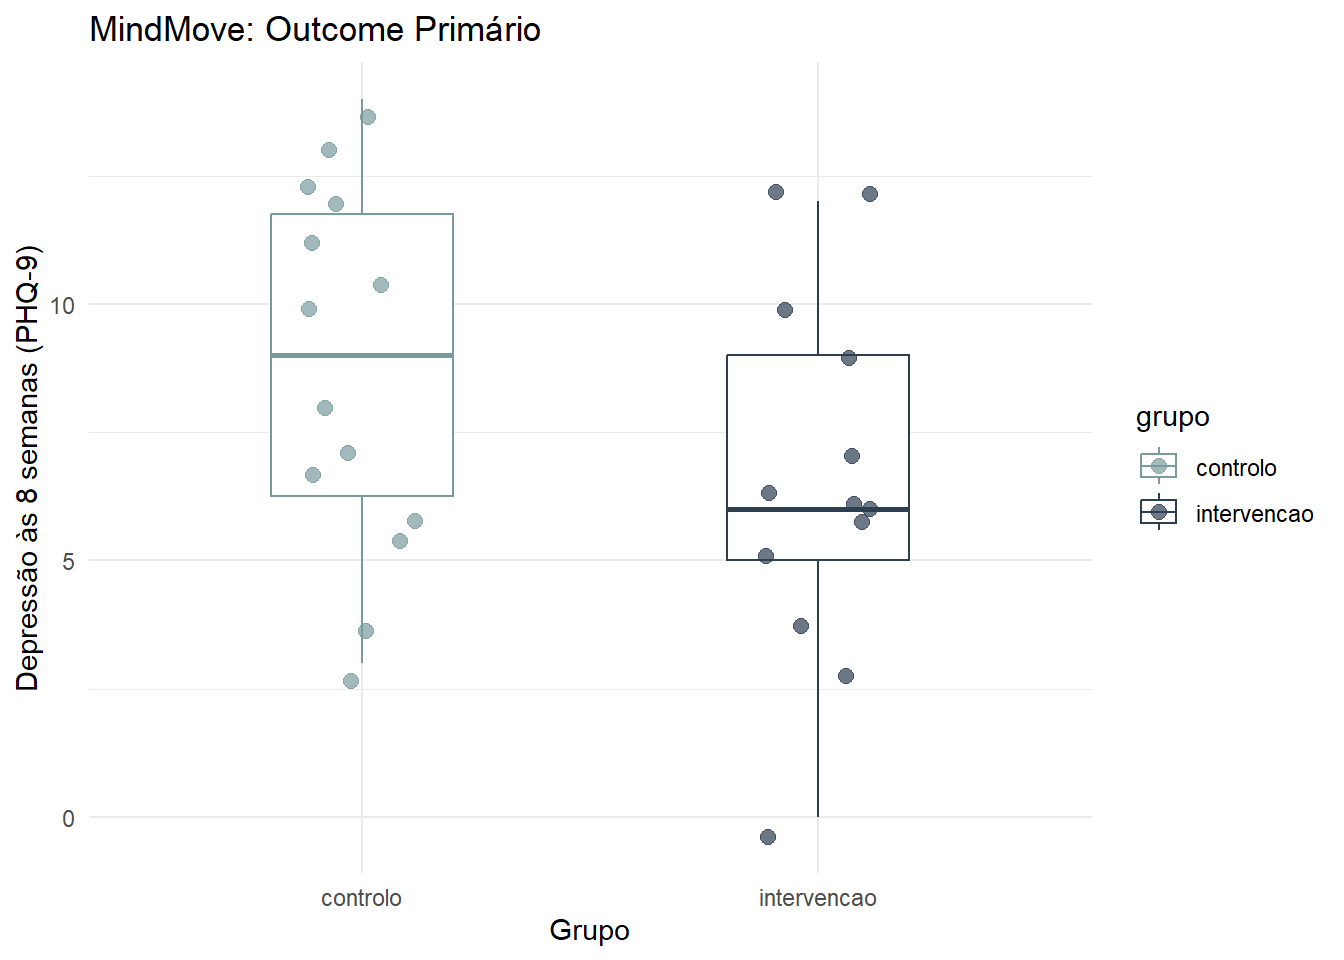
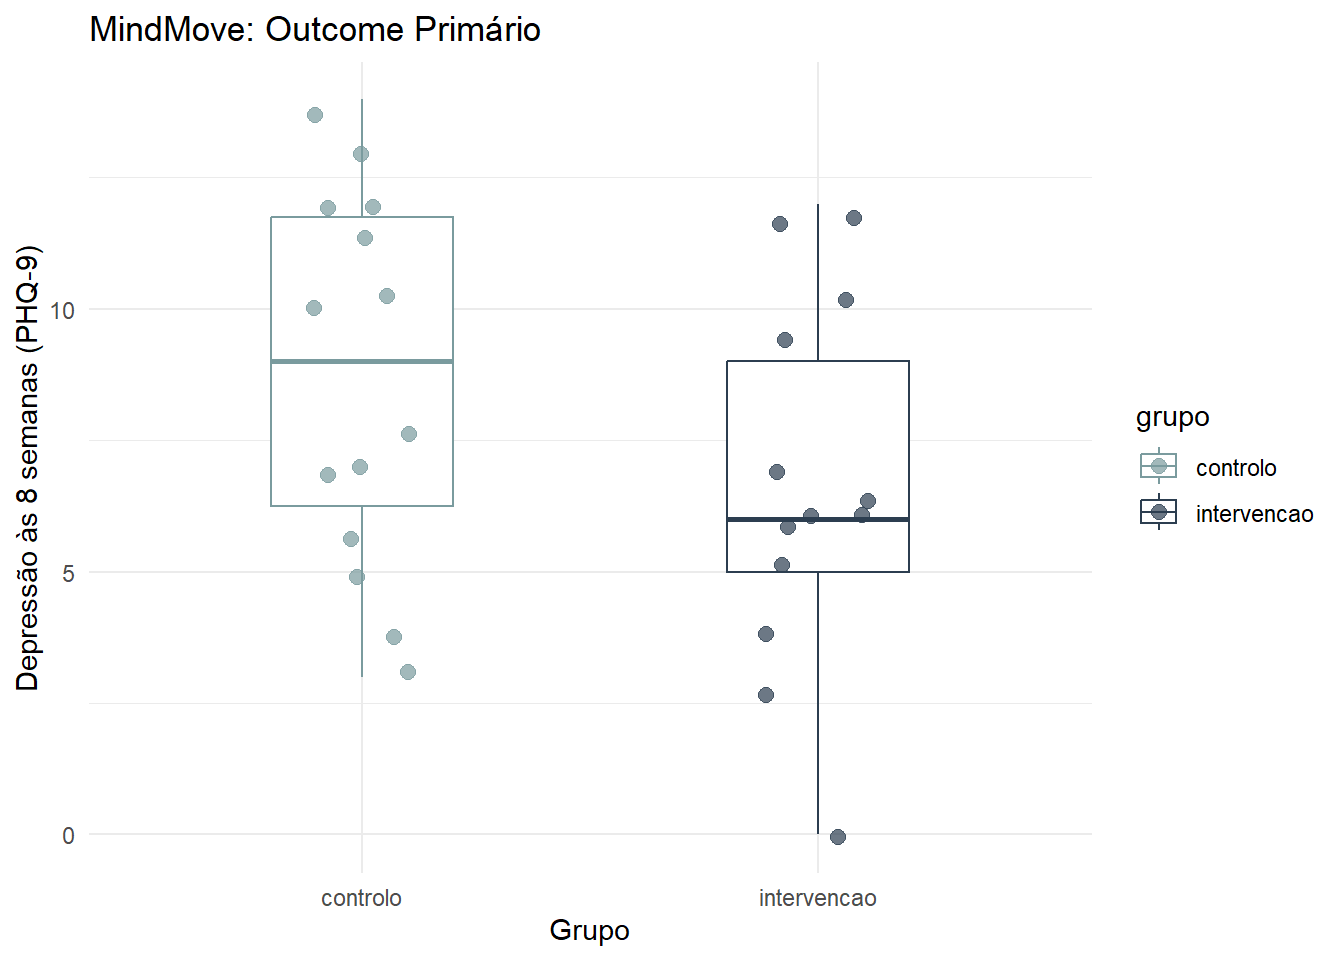
link figma

diff --git a/docs/resultados.html b/docs/resultados.html
@@ -161,23 +161,23 @@ ul.task-list li input[type="checkbox"] {
 <p>Aqui estão os resultados da nossa análise estatística sobre o projeto MindMove:</p>
 <div class="cell">
 <div class="cell-output-display">
-<div id="okndxrdubi" style="padding-left:0px;padding-right:0px;padding-top:10px;padding-bottom:10px;overflow-x:auto;overflow-y:auto;width:auto;height:auto;">
-<style>#okndxrdubi table {
+<div id="wqkzmlhntv" style="padding-left:0px;padding-right:0px;padding-top:10px;padding-bottom:10px;overflow-x:auto;overflow-y:auto;width:auto;height:auto;">
+<style>#wqkzmlhntv table {
   font-family: system-ui, 'Segoe UI', Roboto, Helvetica, Arial, sans-serif, 'Apple Color Emoji', 'Segoe UI Emoji', 'Segoe UI Symbol', 'Noto Color Emoji';
   -webkit-font-smoothing: antialiased;
   -moz-osx-font-smoothing: grayscale;
 }
 
-#okndxrdubi thead, #okndxrdubi tbody, #okndxrdubi tfoot, #okndxrdubi tr, #okndxrdubi td, #okndxrdubi th {
+#wqkzmlhntv thead, #wqkzmlhntv tbody, #wqkzmlhntv tfoot, #wqkzmlhntv tr, #wqkzmlhntv td, #wqkzmlhntv th {
   border-style: none;
 }
 
-#okndxrdubi p {
+#wqkzmlhntv p {
   margin: 0;
   padding: 0;
 }
 
-#okndxrdubi .gt_table {
+#wqkzmlhntv .gt_table {
   display: table;
   border-collapse: collapse;
   line-height: normal;
@@ -203,12 +203,12 @@ ul.task-list li input[type="checkbox"] {
   border-left-color: #D3D3D3;
 }
 
-#okndxrdubi .gt_caption {
+#wqkzmlhntv .gt_caption {
   padding-top: 4px;
   padding-bottom: 4px;
 }
 
-#okndxrdubi .gt_title {
+#wqkzmlhntv .gt_title {
   color: #333333;
   font-size: 125%;
   font-weight: initial;
@@ -220,7 +220,7 @@ ul.task-list li input[type="checkbox"] {
   border-bottom-width: 0;
 }
 
-#okndxrdubi .gt_subtitle {
+#wqkzmlhntv .gt_subtitle {
   color: #333333;
   font-size: 85%;
   font-weight: initial;
@@ -232,7 +232,7 @@ ul.task-list li input[type="checkbox"] {
   border-top-width: 0;
 }
 
-#okndxrdubi .gt_heading {
+#wqkzmlhntv .gt_heading {
   background-color: #FFFFFF;
   text-align: center;
   border-bottom-color: #FFFFFF;
@@ -244,13 +244,13 @@ ul.task-list li input[type="checkbox"] {
   border-right-color: #D3D3D3;
 }
 
-#okndxrdubi .gt_bottom_border {
+#wqkzmlhntv .gt_bottom_border {
   border-bottom-style: solid;
   border-bottom-width: 2px;
   border-bottom-color: #D3D3D3;
 }
 
-#okndxrdubi .gt_col_headings {
+#wqkzmlhntv .gt_col_headings {
   border-top-style: solid;
   border-top-width: 2px;
   border-top-color: #D3D3D3;
@@ -265,7 +265,7 @@ ul.task-list li input[type="checkbox"] {
   border-right-color: #D3D3D3;
 }
 
-#okndxrdubi .gt_col_heading {
+#wqkzmlhntv .gt_col_heading {
   color: #333333;
   background-color: #FFFFFF;
   font-size: 100%;
@@ -285,7 +285,7 @@ ul.task-list li input[type="checkbox"] {
   overflow-x: hidden;
 }
 
-#okndxrdubi .gt_column_spanner_outer {
+#wqkzmlhntv .gt_column_spanner_outer {
   color: #333333;
   background-color: #FFFFFF;
   font-size: 100%;
@@ -297,15 +297,15 @@ ul.task-list li input[type="checkbox"] {
   padding-right: 4px;
 }
 
-#okndxrdubi .gt_column_spanner_outer:first-child {
+#wqkzmlhntv .gt_column_spanner_outer:first-child {
   padding-left: 0;
 }
 
-#okndxrdubi .gt_column_spanner_outer:last-child {
+#wqkzmlhntv .gt_column_spanner_outer:last-child {
   padding-right: 0;
 }
 
-#okndxrdubi .gt_column_spanner {
+#wqkzmlhntv .gt_column_spanner {
   border-bottom-style: solid;
   border-bottom-width: 2px;
   border-bottom-color: #D3D3D3;
@@ -317,11 +317,11 @@ ul.task-list li input[type="checkbox"] {
   width: 100%;
 }
 
-#okndxrdubi .gt_spanner_row {
+#wqkzmlhntv .gt_spanner_row {
   border-bottom-style: hidden;
 }
 
-#okndxrdubi .gt_group_heading {
+#wqkzmlhntv .gt_group_heading {
   padding-top: 8px;
   padding-bottom: 8px;
   padding-left: 5px;
@@ -347,7 +347,7 @@ ul.task-list li input[type="checkbox"] {
   text-align: left;
 }
 
-#okndxrdubi .gt_empty_group_heading {
+#wqkzmlhntv .gt_empty_group_heading {
   padding: 0.5px;
   color: #333333;
   background-color: #FFFFFF;
@@ -362,15 +362,15 @@ ul.task-list li input[type="checkbox"] {
   vertical-align: middle;
 }
 
-#okndxrdubi .gt_from_md > :first-child {
+#wqkzmlhntv .gt_from_md > :first-child {
   margin-top: 0;
 }
 
-#okndxrdubi .gt_from_md > :last-child {
+#wqkzmlhntv .gt_from_md > :last-child {
   margin-bottom: 0;
 }
 
-#okndxrdubi .gt_row {
+#wqkzmlhntv .gt_row {
   padding-top: 8px;
   padding-bottom: 8px;
   padding-left: 5px;
@@ -389,7 +389,7 @@ ul.task-list li input[type="checkbox"] {
   overflow-x: hidden;
 }
 
-#okndxrdubi .gt_stub {
+#wqkzmlhntv .gt_stub {
   color: #333333;
   background-color: #FFFFFF;
   font-size: 100%;
@@ -402,7 +402,7 @@ ul.task-list li input[type="checkbox"] {
   padding-right: 5px;
 }
 
-#okndxrdubi .gt_stub_row_group {
+#wqkzmlhntv .gt_stub_row_group {
   color: #333333;
   background-color: #FFFFFF;
   font-size: 100%;
@@ -416,15 +416,15 @@ ul.task-list li input[type="checkbox"] {
   vertical-align: top;
 }
 
-#okndxrdubi .gt_row_group_first td {
+#wqkzmlhntv .gt_row_group_first td {
   border-top-width: 2px;
 }
 
-#okndxrdubi .gt_row_group_first th {
+#wqkzmlhntv .gt_row_group_first th {
   border-top-width: 2px;
 }
 
-#okndxrdubi .gt_summary_row {
+#wqkzmlhntv .gt_summary_row {
   color: #333333;
   background-color: #FFFFFF;
   text-transform: inherit;
@@ -434,16 +434,16 @@ ul.task-list li input[type="checkbox"] {
   padding-right: 5px;
 }
 
-#okndxrdubi .gt_first_summary_row {
+#wqkzmlhntv .gt_first_summary_row {
   border-top-style: solid;
   border-top-color: #D3D3D3;
 }
 
-#okndxrdubi .gt_first_summary_row.thick {
+#wqkzmlhntv .gt_first_summary_row.thick {
   border-top-width: 2px;
 }
 
-#okndxrdubi .gt_last_summary_row {
+#wqkzmlhntv .gt_last_summary_row {
   padding-top: 8px;
   padding-bottom: 8px;
   padding-left: 5px;
@@ -453,7 +453,7 @@ ul.task-list li input[type="checkbox"] {
   border-bottom-color: #D3D3D3;
 }
 
-#okndxrdubi .gt_grand_summary_row {
+#wqkzmlhntv .gt_grand_summary_row {
   color: #333333;
   background-color: #FFFFFF;
   text-transform: inherit;
@@ -463,7 +463,7 @@ ul.task-list li input[type="checkbox"] {
   padding-right: 5px;
 }
 
-#okndxrdubi .gt_first_grand_summary_row {
+#wqkzmlhntv .gt_first_grand_summary_row {
   padding-top: 8px;
   padding-bottom: 8px;
   padding-left: 5px;
@@ -473,7 +473,7 @@ ul.task-list li input[type="checkbox"] {
   border-top-color: #D3D3D3;
 }
 
-#okndxrdubi .gt_last_grand_summary_row_top {
+#wqkzmlhntv .gt_last_grand_summary_row_top {
   padding-top: 8px;
   padding-bottom: 8px;
   padding-left: 5px;
@@ -483,11 +483,11 @@ ul.task-list li input[type="checkbox"] {
   border-bottom-color: #D3D3D3;
 }
 
-#okndxrdubi .gt_striped {
+#wqkzmlhntv .gt_striped {
   background-color: rgba(128, 128, 128, 0.05);
 }
 
-#okndxrdubi .gt_table_body {
+#wqkzmlhntv .gt_table_body {
   border-top-style: solid;
   border-top-width: 2px;
   border-top-color: #D3D3D3;
@@ -496,7 +496,7 @@ ul.task-list li input[type="checkbox"] {
   border-bottom-color: #D3D3D3;
 }
 
-#okndxrdubi .gt_footnotes {
+#wqkzmlhntv .gt_footnotes {
   color: #333333;
   background-color: #FFFFFF;
   border-bottom-style: none;
@@ -510,7 +510,7 @@ ul.task-list li input[type="checkbox"] {
   border-right-color: #D3D3D3;
 }
 
-#okndxrdubi .gt_footnote {
+#wqkzmlhntv .gt_footnote {
   margin: 0px;
   font-size: 90%;
   padding-top: 4px;
@@ -519,7 +519,7 @@ ul.task-list li input[type="checkbox"] {
   padding-right: 5px;
 }
 
-#okndxrdubi .gt_sourcenotes {
+#wqkzmlhntv .gt_sourcenotes {
   color: #333333;
   background-color: #FFFFFF;
   border-bottom-style: none;
@@ -533,7 +533,7 @@ ul.task-list li input[type="checkbox"] {
   border-right-color: #D3D3D3;
 }
 
-#okndxrdubi .gt_sourcenote {
+#wqkzmlhntv .gt_sourcenote {
   font-size: 90%;
   padding-top: 4px;
   padding-bottom: 4px;
@@ -541,72 +541,72 @@ ul.task-list li input[type="checkbox"] {
   padding-right: 5px;
 }
 
-#okndxrdubi .gt_left {
+#wqkzmlhntv .gt_left {
   text-align: left;
 }
 
-#okndxrdubi .gt_center {
+#wqkzmlhntv .gt_center {
   text-align: center;
 }
 
-#okndxrdubi .gt_right {
+#wqkzmlhntv .gt_right {
   text-align: right;
   font-variant-numeric: tabular-nums;
 }
 
-#okndxrdubi .gt_font_normal {
+#wqkzmlhntv .gt_font_normal {
   font-weight: normal;
 }
 
-#okndxrdubi .gt_font_bold {
+#wqkzmlhntv .gt_font_bold {
   font-weight: bold;
 }
 
-#okndxrdubi .gt_font_italic {
+#wqkzmlhntv .gt_font_italic {
   font-style: italic;
 }
 
-#okndxrdubi .gt_super {
+#wqkzmlhntv .gt_super {
   font-size: 65%;
 }
 
-#okndxrdubi .gt_footnote_marks {
+#wqkzmlhntv .gt_footnote_marks {
   font-size: 75%;
   vertical-align: 0.4em;
   position: initial;
 }
 
-#okndxrdubi .gt_asterisk {
+#wqkzmlhntv .gt_asterisk {
   font-size: 100%;
   vertical-align: 0;
 }
 
-#okndxrdubi .gt_indent_1 {
+#wqkzmlhntv .gt_indent_1 {
   text-indent: 5px;
 }
 
-#okndxrdubi .gt_indent_2 {
+#wqkzmlhntv .gt_indent_2 {
   text-indent: 10px;
 }
 
-#okndxrdubi .gt_indent_3 {
+#wqkzmlhntv .gt_indent_3 {
   text-indent: 15px;
 }
 
-#okndxrdubi .gt_indent_4 {
+#wqkzmlhntv .gt_indent_4 {
   text-indent: 20px;
 }
 
-#okndxrdubi .gt_indent_5 {
+#wqkzmlhntv .gt_indent_5 {
   text-indent: 25px;
 }
 
-#okndxrdubi .katex-display {
+#wqkzmlhntv .katex-display {
   display: inline-flex !important;
   margin-bottom: 0.75em !important;
 }
 
-#okndxrdubi div.Reactable > div.rt-table > div.rt-thead > div.rt-tr.rt-tr-group-header > div.rt-th-group:after {
+#wqkzmlhntv div.Reactable > div.rt-table > div.rt-thead > div.rt-tr.rt-tr-group-header > div.rt-th-group:after {
   height: 0px !important;
 }
 </style>

diff --git a/docs/materiais.html b/docs/materiais.html
@@ -170,7 +170,7 @@ ul.task-list li input[type="checkbox"] {
 <li><strong>Ativação Comportamental:</strong> Registo diário de minutos de caminhada (com feedback positivo de sucesso), promovendo a ação e quebrando o ciclo de inatividade.</li>
 <li><strong>UX / Prevenção de Erros:</strong> O protótipo inclui validação de dados visuais (avisos a vermelho) caso o participante tente avançar sem preencher os minutos, demonstrando boas práticas de usabilidade em saúde digital.</li>
 </ul>
-<p>Ao entrar no link abaixo pode navegar interativamente pelos ecrãs da nossa aplicação: <a href="https://www.figma.com/design/Lc41uxhswBDwFAH3voAbmz/MindMove?node-id=418-133&amp;t=EyWUioOUqp0e26SZ-1">Clique aqui para visualizar os ecrãs da nossa app</a> <em>(Nota: Para testar o fluxo de erro, tente clicar em “Guardar atividade” sem inserir nenhum valor no campo de texto).</em></p>
+<p>Ao entrar no link abaixo pode navegar interativamente pelos ecrãs da nossa aplicação: <a href="https://www.figma.com/proto/Lc41uxhswBDwFAH3voAbmz/MindMove?node-id=304-2&amp;t=nboQ2Cf7O69y8RQv-0&amp;scaling=scale-down&amp;content-scaling=fixed&amp;page-id=0%3A1&amp;starting-point-node-id=304%3A2&amp;show-proto-sidebar=1">Clique aqui para visualizar os ecrãs da nossa app</a> <em>(Nota: Para testar o fluxo de erro, tente clicar em “Guardar atividade” sem inserir nenhum valor no campo de texto).</em></p>
 <section id="caderno-de-recolha-de-dados-redcap" class="level3">
 <h3 class="anchored" data-anchor-id="caderno-de-recolha-de-dados-redcap">Caderno de Recolha de Dados (REDCap)</h3>
 <p>Para a recolha, gestão e armazenamento seguro dos dados clínicos dos participantes ao longo do ensaio, utilizámos a plataforma <strong>REDCap</strong> (<em>Research Electronic Data Capture</em>).</p>